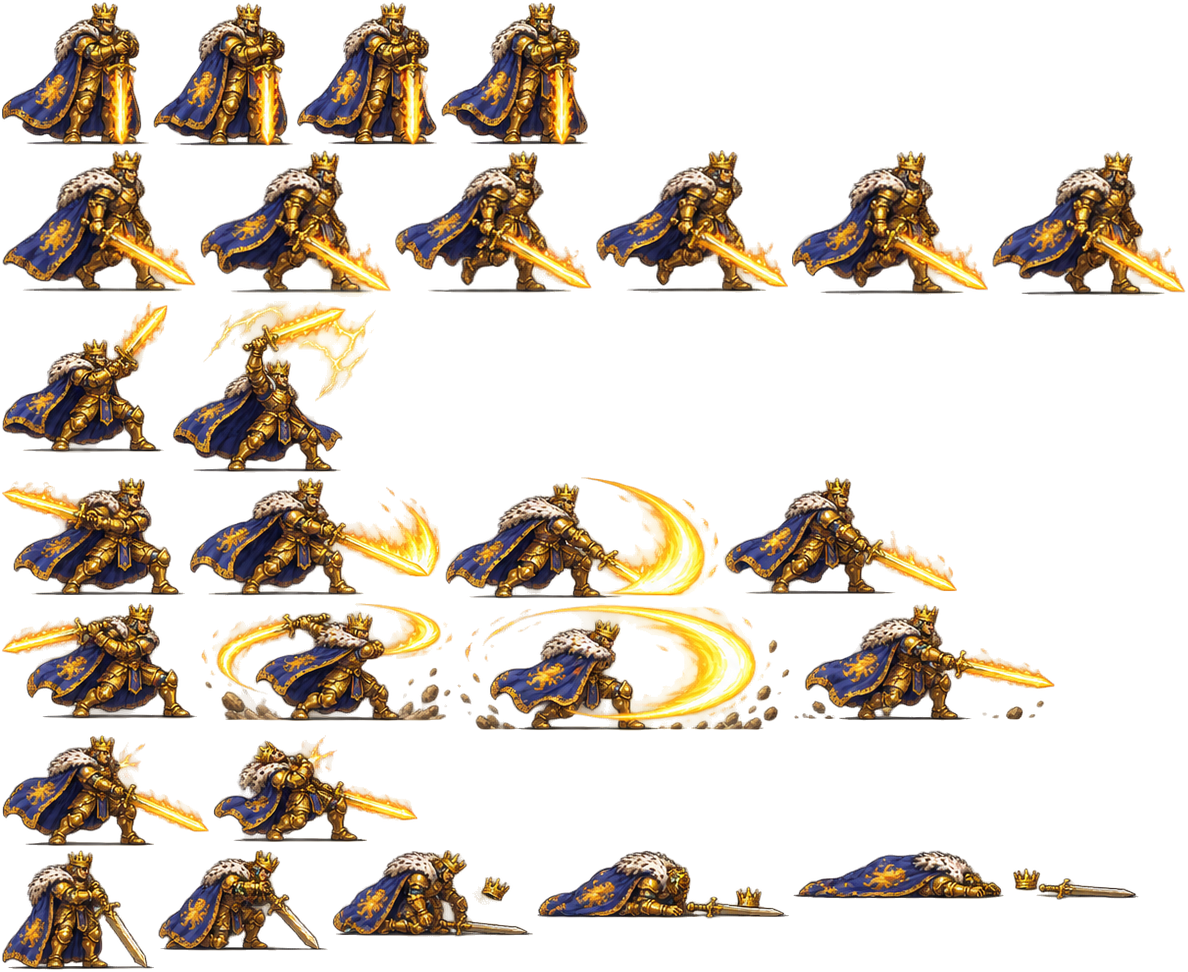
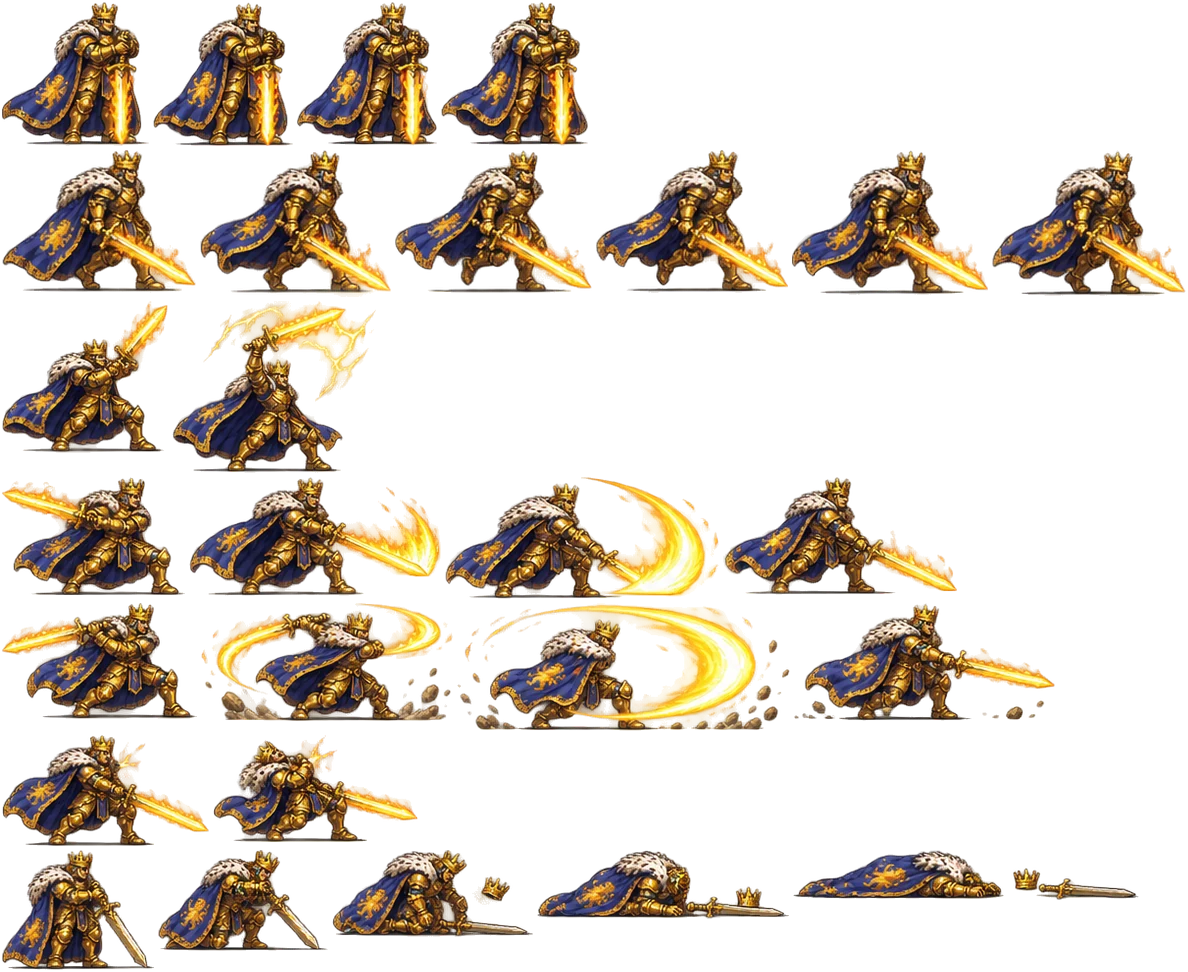
Quest: compress boss sheets for the web (9.1 MB -> 3.7 MB)
WebP quality 88 / alpha 90; visually identical at game size.

Claude-Session: https://claude.ai/code/session_01T4Ncn1ihgTr1NAgQFywcZ6

diff --git a/quest/index.html b/quest/index.html
@@ -123,6 +123,6 @@
   </section>
 
 </main>
-<script src="game.js?v=35"></script>
+<script src="game.js?v=36"></script>
 </body>
 </html>
